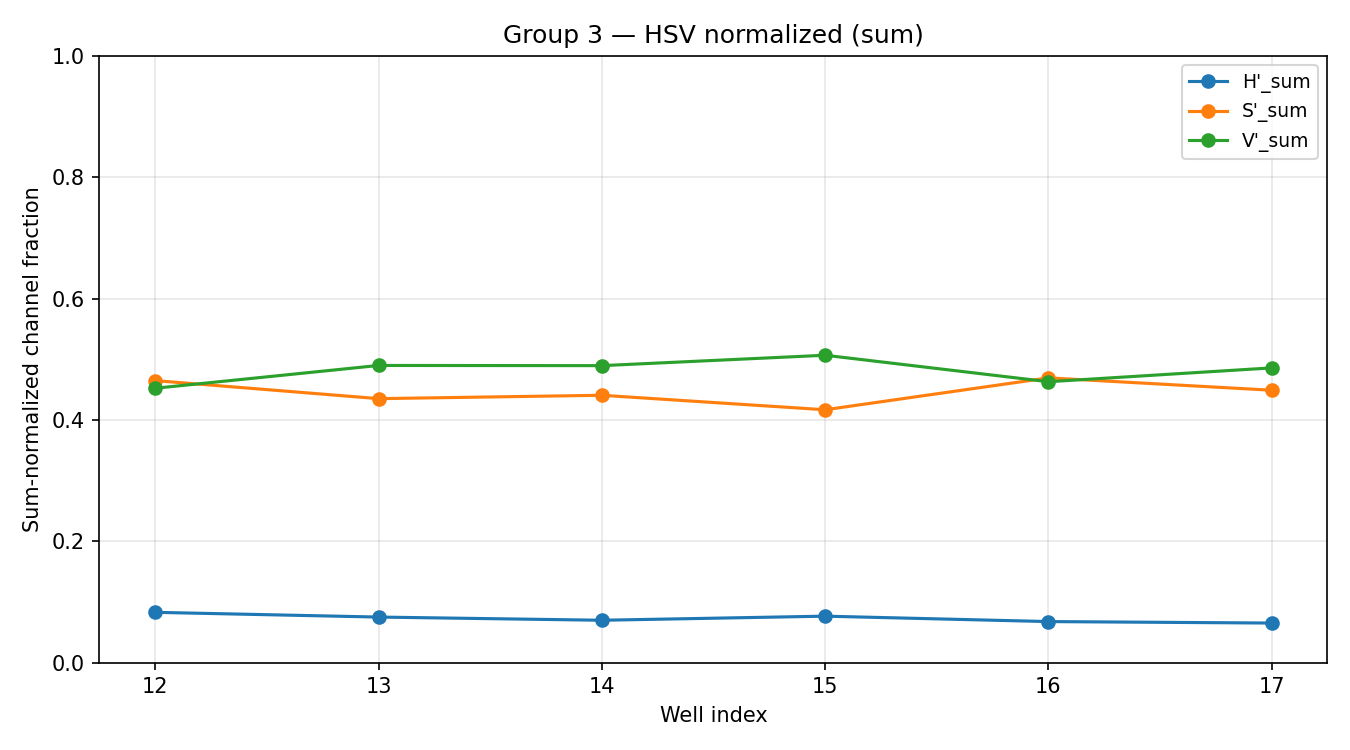
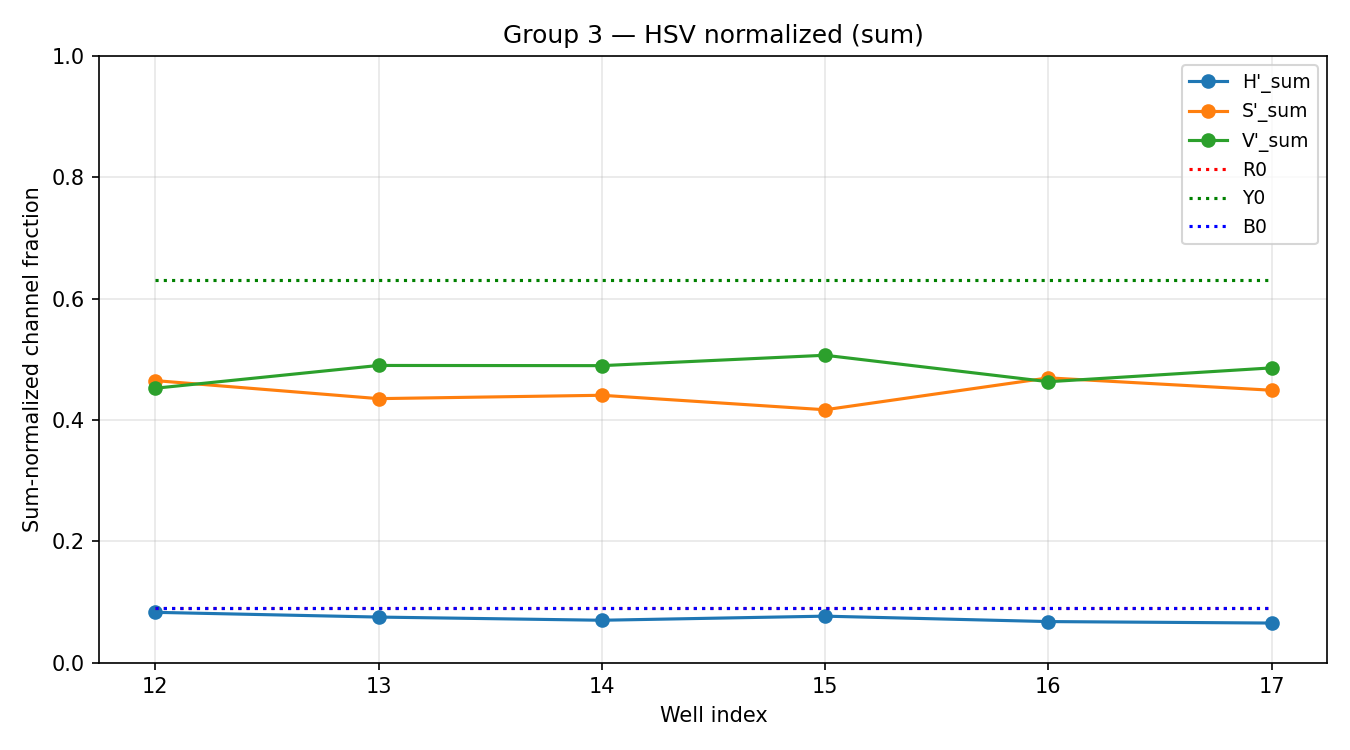
plots: add per-group LAB/HSV water-scaled expected overlays (scaled+sum); regenerate 20260213_073533

Changed region(s): [[0.8711, 0.2147, 0.9333, 0.3373]]

diff --git a/tests/analysis/uncertainty_plot_and_stats.py b/tests/analysis/uncertainty_plot_and_stats.py
@@ -206,20 +206,19 @@ def write_normalized_outputs(df: pd.DataFrame, out_dir: Path):
                 plt.ylabel("Normalized channel value")
                 plt.ylim(0, 1)
                 plt.grid(True, alpha=0.3)
-                # Overlay expected R/Y/B dotted lines for RGB normalized (scaled) — water-scaled
-                if cs == 'RGB':
-                    expected = get_expected_compositions('dominant')
-                    comp = expected.get(int(group_id), {'R': 0.33, 'Y': 0.33, 'B': 0.33, 'Water': 0.0})
-                    scale = 1.0 - comp.get('Water', 0.0)
-                    r0 = comp['R'] * scale
-                    y0 = comp['Y'] * scale
-                    b0 = comp['B'] * scale
-                    xmin = pivot.index.min() if len(pivot.index) else None
-                    xmax = pivot.index.max() if len(pivot.index) else None
-                    if xmin is not None and xmax is not None:
-                        plt.hlines([r0], xmin=xmin, xmax=xmax, colors='r', linestyles='dotted', label='R0')
-                        plt.hlines([y0], xmin=xmin, xmax=xmax, colors='g', linestyles='dotted', label='Y0')
-                        plt.hlines([b0], xmin=xmin, xmax=xmax, colors='b', linestyles='dotted', label='B0')
+                # Overlay expected dotted lines (water-scaled) for all color spaces — scaled variant
+                expected = get_expected_compositions('dominant')
+                comp = expected.get(int(group_id), {'R': 0.33, 'Y': 0.33, 'B': 0.33, 'Water': 0.0})
+                scale = 1.0 - comp.get('Water', 0.0)
+                r0 = comp['R'] * scale
+                y0 = comp['Y'] * scale
+                b0 = comp['B'] * scale
+                xmin = pivot.index.min() if len(pivot.index) else None
+                xmax = pivot.index.max() if len(pivot.index) else None
+                if xmin is not None and xmax is not None:
+                    plt.hlines([r0], xmin=xmin, xmax=xmax, colors='r', linestyles='dotted', label='R0')
+                    plt.hlines([y0], xmin=xmin, xmax=xmax, colors='g', linestyles='dotted', label='Y0')
+                    plt.hlines([b0], xmin=xmin, xmax=xmax, colors='b', linestyles='dotted', label='B0')
                 plt.legend(fontsize=9)
                 plt.tight_layout()
                 out_png = out_dir / f"trend_group_{group_id}_{cs}_normalized_scaled.png"
@@ -235,20 +234,19 @@ def write_normalized_outputs(df: pd.DataFrame, out_dir: Path):
                 plt.ylabel("Sum-normalized channel fraction")
                 plt.ylim(0, 1)
                 plt.grid(True, alpha=0.3)
-                # Overlay expected lines for RGB sum-normalized — water-scaled
-                if cs == 'RGB':
-                    expected = get_expected_compositions('dominant')
-                    comp = expected.get(int(group_id), {'R': 0.33, 'Y': 0.33, 'B': 0.33, 'Water': 0.0})
-                    scale = 1.0 - comp.get('Water', 0.0)
-                    r0 = comp['R'] * scale
-                    y0 = comp['Y'] * scale
-                    b0 = comp['B'] * scale
-                    xmin = pivot.index.min() if len(pivot.index) else None
-                    xmax = pivot.index.max() if len(pivot.index) else None
-                    if xmin is not None and xmax is not None:
-                        plt.hlines([r0], xmin=xmin, xmax=xmax, colors='r', linestyles='dotted', label='R0')
-                        plt.hlines([y0], xmin=xmin, xmax=xmax, colors='g', linestyles='dotted', label='Y0')
-                        plt.hlines([b0], xmin=xmin, xmax=xmax, colors='b', linestyles='dotted', label='B0')
+                # Overlay expected dotted lines (water-scaled) for all color spaces — sum variant
+                expected = get_expected_compositions('dominant')
+                comp = expected.get(int(group_id), {'R': 0.33, 'Y': 0.33, 'B': 0.33, 'Water': 0.0})
+                scale = 1.0 - comp.get('Water', 0.0)
+                r0 = comp['R'] * scale
+                y0 = comp['Y'] * scale
+                b0 = comp['B'] * scale
+                xmin = pivot.index.min() if len(pivot.index) else None
+                xmax = pivot.index.max() if len(pivot.index) else None
+                if xmin is not None and xmax is not None:
+                    plt.hlines([r0], xmin=xmin, xmax=xmax, colors='r', linestyles='dotted', label='R0')
+                    plt.hlines([y0], xmin=xmin, xmax=xmax, colors='g', linestyles='dotted', label='Y0')
+                    plt.hlines([b0], xmin=xmin, xmax=xmax, colors='b', linestyles='dotted', label='B0')
                 plt.legend(fontsize=9)
                 plt.tight_layout()
                 out_png = out_dir / f"trend_group_{group_id}_{cs}_normalized_sum.png"
